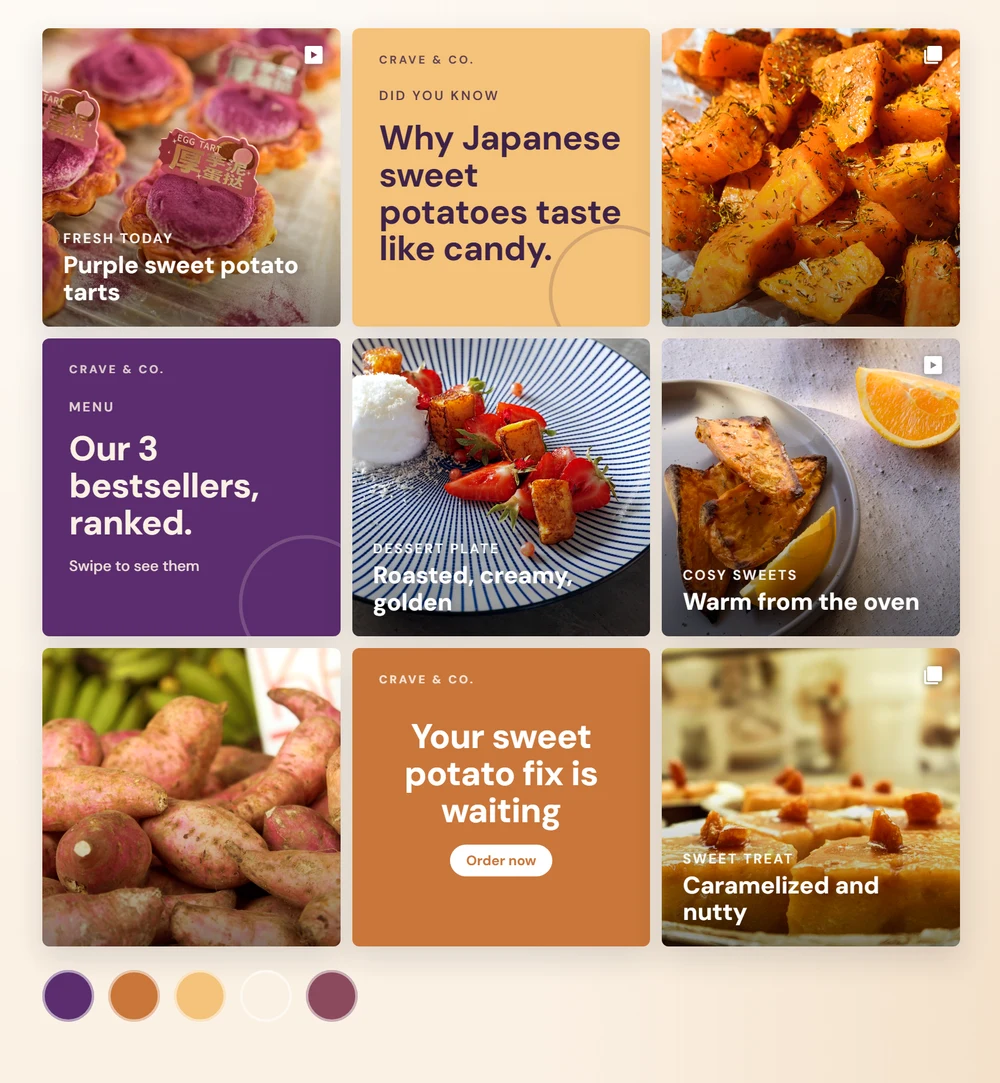
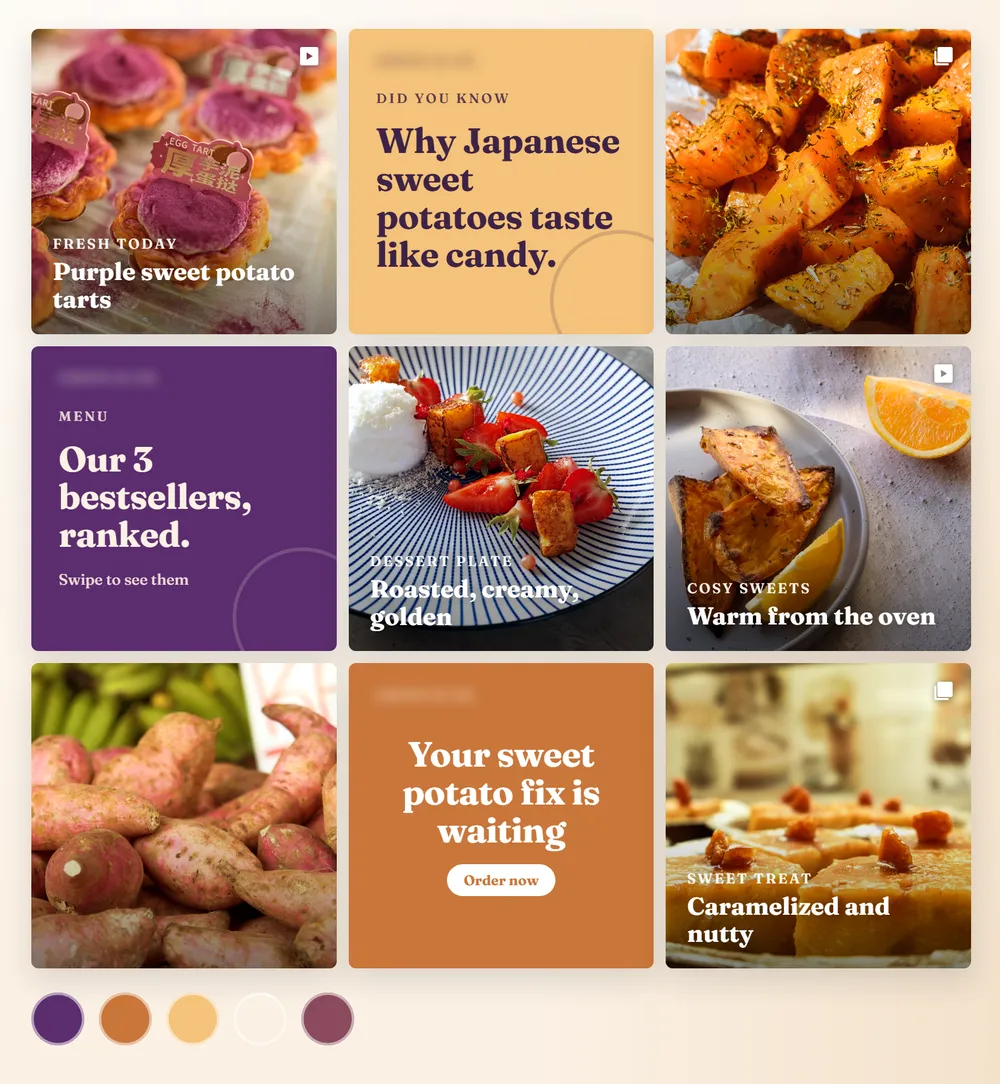
Sweet potato feed: blur brand, Fraunces serif font, drop sample wording

diff --git a/concepts/instagram-feeds/index.html b/concepts/instagram-feeds/index.html
@@ -4,7 +4,7 @@
 <!-- Each feed has its own font (D.font): clinic = Jost, makeup = Playfair Display, travel = DM Sans, coffee = Bricolage Grotesque. -->
 <!-- Source for the three Instagram feed mockups (images/ig-feed-*.jpg). Open with ?f=clinic | travel | makeup.
      Photos are Pexels stock photos. Brands and handles are made-up samples. Screenshot at 1600x1000. -->
-<link href="https://fonts.googleapis.com/css2?family=DM+Sans:wght@400;500;600;700&family=Inter:wght@400;500;600;700&family=Jost:wght@400;500;600;700&family=Playfair+Display:wght@500;600;700&family=Bricolage+Grotesque:wght@400;500;600;700&display=swap" rel="stylesheet">
+<link href="https://fonts.googleapis.com/css2?family=DM+Sans:wght@400;500;600;700&family=Inter:wght@400;500;600;700&family=Jost:wght@400;500;600;700&family=Playfair+Display:wght@500;600;700&family=Bricolage+Grotesque:wght@400;500;600;700&family=Fraunces:opsz,wght@9..144,500;9..144,600;9..144,700&display=swap" rel="stylesheet">
 <style>
 *{box-sizing:border-box;margin:0;padding:0}
 html,body{width:1600px;height:1000px;overflow:hidden}
@@ -148,12 +148,12 @@ const F = {
   },
   sweet: {
     bg: "#fbf1e4", bg2: "#e9c9a6", ink: "#3d2347",
-    ph: "saturate(1.05) contrast(1.03) brightness(1.02)", tint: "#d99a5b", noblur: 1,
+    ph: "saturate(1.05) contrast(1.03) brightness(1.02)", tint: "#d99a5b",
     swatches: ["#5b2d6e", "#c9763a", "#f4c27a", "#fbf1e4", "#8b4a5e"],
-    font: "DM Sans", title: "Dessert Shop, sample feed plan", sub: "Instagram feed planning · warm, cosy, made to make you hungry",
+    font: "Fraunces", title: "Dessert Shop", sub: "Instagram feed planning · warm, cosy, made to make you hungry",
     user: "craveandco.sweets", mono: "C&amp;C", ring: "linear-gradient(45deg,#c9763a,#5b2d6e)", av: "#5b2d6e", hlbg: "#f6e3cc",
     stats: ["9", "-", "-"],
-    bio: '<b>Crave &amp; Co.</b><span class="cat">Dessert shop</span><br>Japanese-style sweet potato desserts 🍠<br>Warm, creamy, made fresh<br><span class="lk">Sample plan, not live</span>',
+    bio: '<b>Crave &amp; Co.</b><span class="cat">Dessert shop</span><br>Japanese-style sweet potato desserts 🍠<br>Warm, creamy, made fresh<br><span class="lk">craveandco.com</span>',
     hl: [[34205118, "Tarts"], [37488678, "Roasted"], [10652321, "Purple"], [35254700, "Sweets"], [5507575, "Wedges"]],
     tiles: [
       { p: 34205118, cap: "Purple sweet potato tarts", k: "Fresh today", shade: 1, ic: REEL },

diff --git a/cv/data.js b/cv/data.js
@@ -250,7 +250,7 @@ window.RESUME_BASE = {
     ambFeedMore: { label: "More Instagram feed concepts I create and plan", blurb: "Sample 9-post feeds for other brands: one colour palette, photos mixed with text posts and a fixed layout, previewed as a flat plan and inside the Instagram app. Tap to enlarge.",
       items: [
         { src: "ig-feed-makeup.webp", phone: "ig-feed-makeup-phone.webp", grid: "ig-feed-makeup-grid.webp", title: "Makeup Brand Based in Los Angeles, CA", note: "Soft, feminine and shoppable", accent: "#8b2f4b", tint: "#fbeff2" },
-        { src: "ig-feed-sweet.webp", phone: "ig-feed-sweet-phone.webp", grid: "ig-feed-sweet-grid.webp", title: "Sweet Potato Dessert Shop (sample concept)", note: "Warm, cosy and made to make you hungry", accent: "#5b2d6e", tint: "#f6efe9" },
+        { src: "ig-feed-sweet.webp", phone: "ig-feed-sweet-phone.webp", grid: "ig-feed-sweet-grid.webp", title: "Sweet Potato Dessert Shop", note: "Warm, cosy and made to make you hungry", accent: "#5b2d6e", tint: "#f6efe9" },
         { src: "ig-feed-clinic.webp", phone: "ig-feed-clinic-phone.webp", grid: "ig-feed-clinic-grid.webp", title: "Aesthetic Clinic Based in Beverly Hills, CA", note: "Calm, clean and premium", accent: "#3f5a4b", tint: "#eef3ee" }
       ] },
     ambFeed: { label: "IG feed concept for Alanah", blurb: "A 9-post feed plan built for her real page: her real bio, follower count and story highlights, matched to her site's Marcellus/PT Serif fonts and maroon #970C10 branding. A checkerboard of her real photos with branded quote and course cards. Tap to enlarge.",

diff --git a/cv/jobs.js b/cv/jobs.js
@@ -879,7 +879,7 @@ window.RESUME_JOBS = {
       feedsMine: {
         label: "Instagram feed concept: sweet potato dessert shop",
         blurb: "A sample 9-post feed for a sweet potato dessert shop, with a made-up brand: one colour palette, photos mixed with text posts, previewed as a flat plan and inside the Instagram app. Tap to enlarge.",
-        items: [{ src: "ig-feed-sweet.webp", phone: "ig-feed-sweet-phone.webp", grid: "ig-feed-sweet-grid.webp", title: "Sweet Potato Dessert Shop (sample concept)", note: "Warm, cosy and made to make you hungry", accent: "#5b2d6e", tint: "#f6efe9" }]
+        items: [{ src: "ig-feed-sweet.webp", phone: "ig-feed-sweet-phone.webp", grid: "ig-feed-sweet-grid.webp", title: "Sweet Potato Dessert Shop", note: "Warm, cosy and made to make you hungry", accent: "#5b2d6e", tint: "#f6efe9" }]
       },
       reels: {
         blurb: "Two food Reels (cupcakes and a restaurant edit), plus before-and-after Reels with captions and music for Landscaping Services in Australia. Tap a phone to play.",

diff --git a/cv/index.html b/cv/index.html
@@ -605,8 +605,8 @@ footer{background:#031f26;color:rgba(255,255,255,.6);font-size:13px;padding:18px
 </div>
 <div class="toast" id="toast" role="status"></div>
 
-<script src="data.js?v=20261026i"></script>
-<script src="jobs.js?v=20261026i"></script>
+<script src="data.js?v=20261026j"></script>
+<script src="jobs.js?v=20261026j"></script>
 <script>
 (function(){
 const B = window.RESUME_BASE, JOBS = window.RESUME_JOBS;
